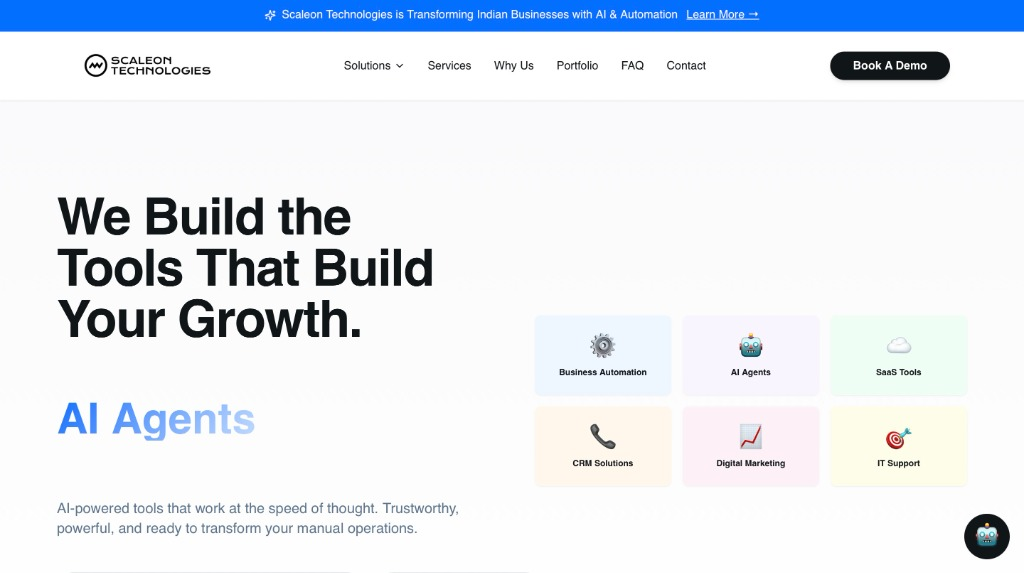
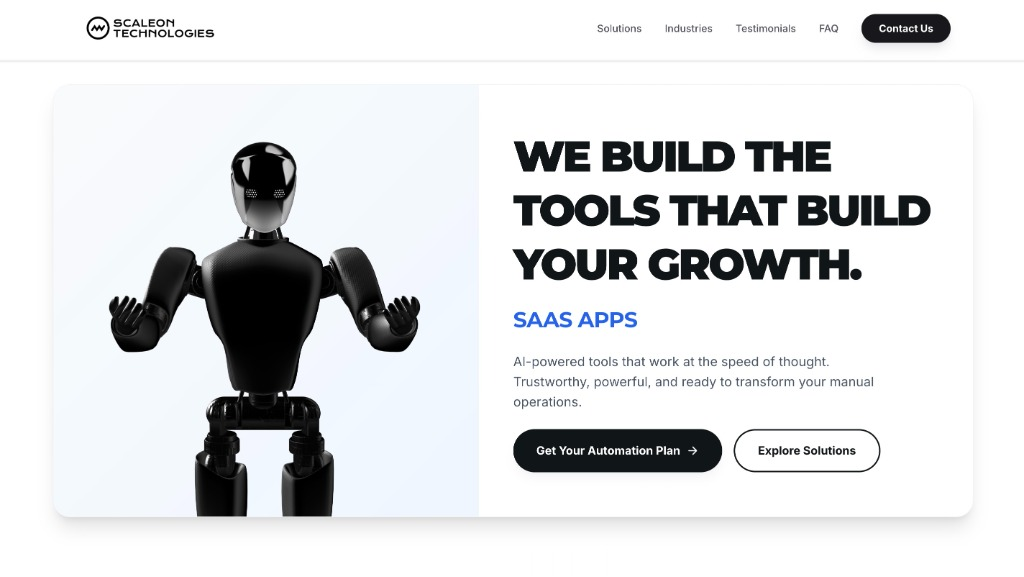
Update ScaleOn project: new image and demo link

diff --git a/src/components/Projects.jsx b/src/components/Projects.jsx
@@ -22,7 +22,7 @@ const Projects = () => {
             ],
             tech: ['React.js', 'Node.js', 'MongoDB', 'REST APIs', 'JWT', 'AI'],
             image: scaleonImage,
-            demo: 'https://scaleon-grow-build.vercel.app/'
+            demo: 'https://scale-on-technology.vercel.app/'
         },
         {
             title: 'Meet Pune',
